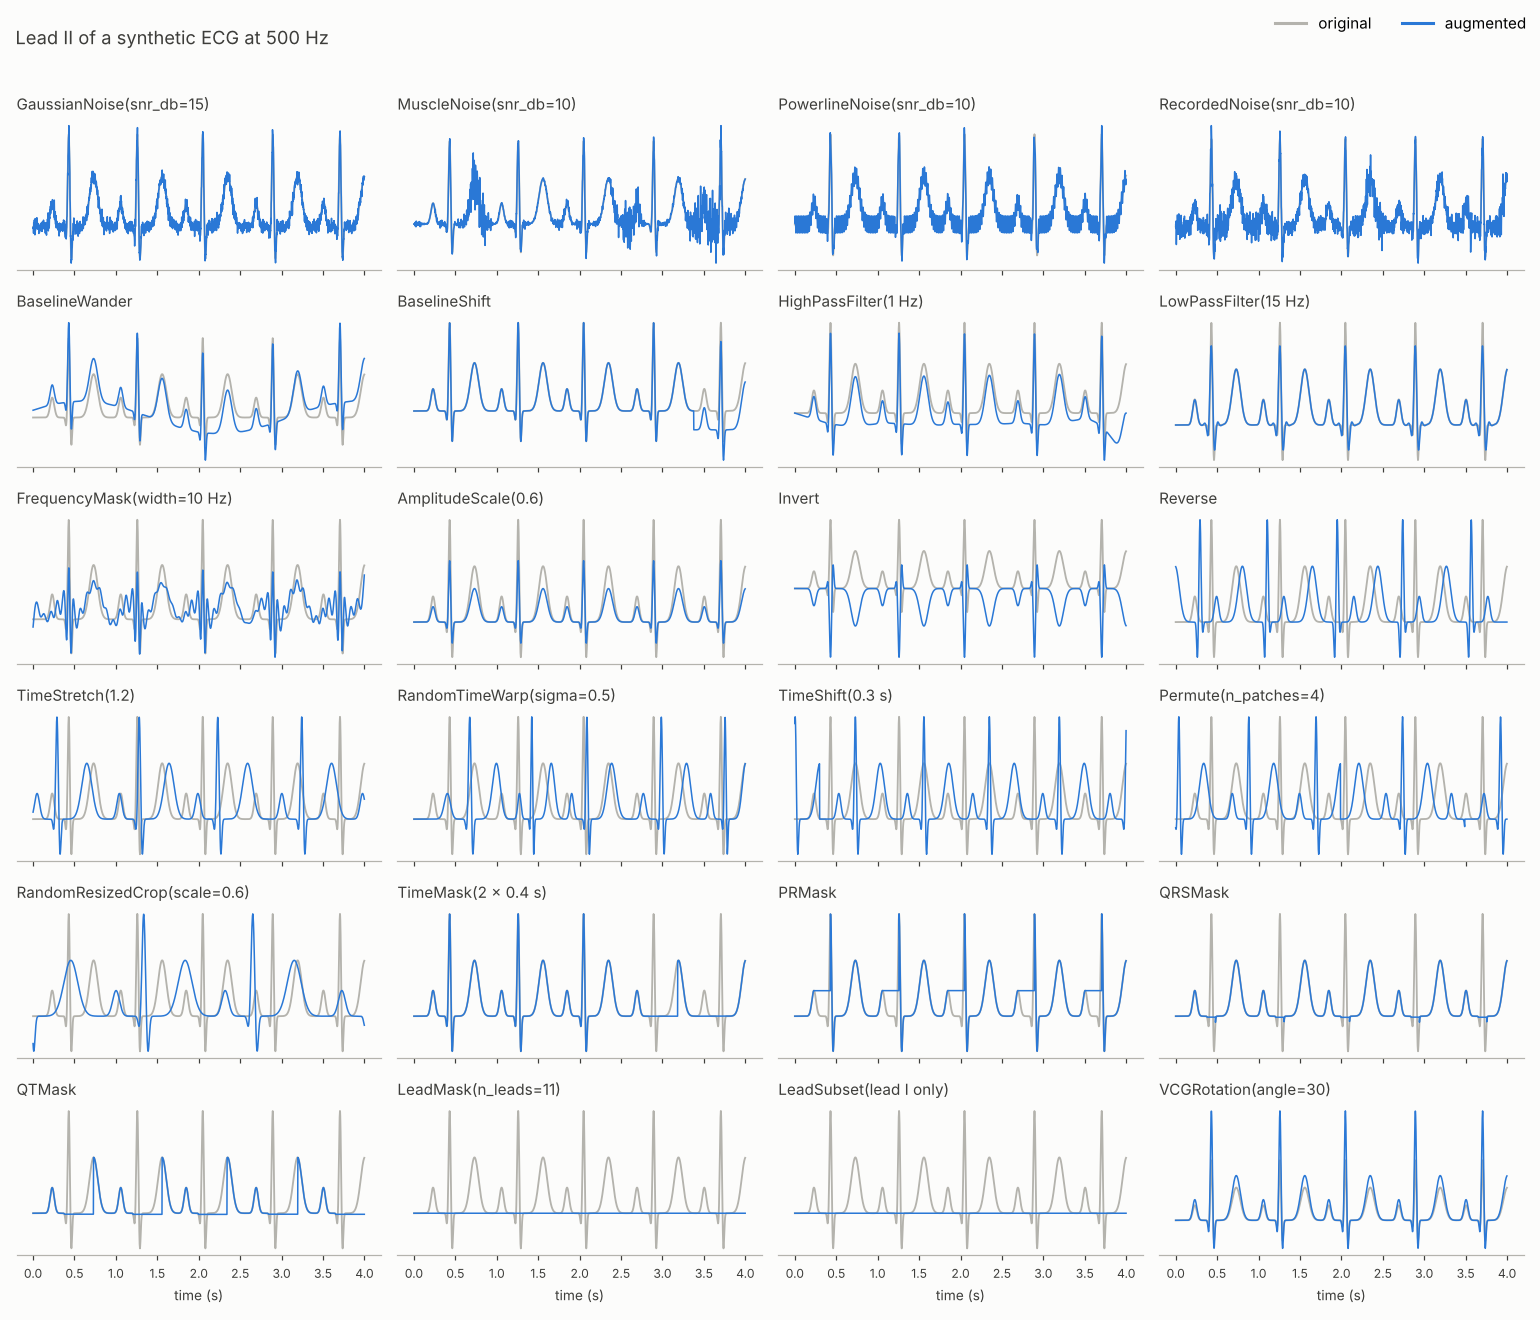
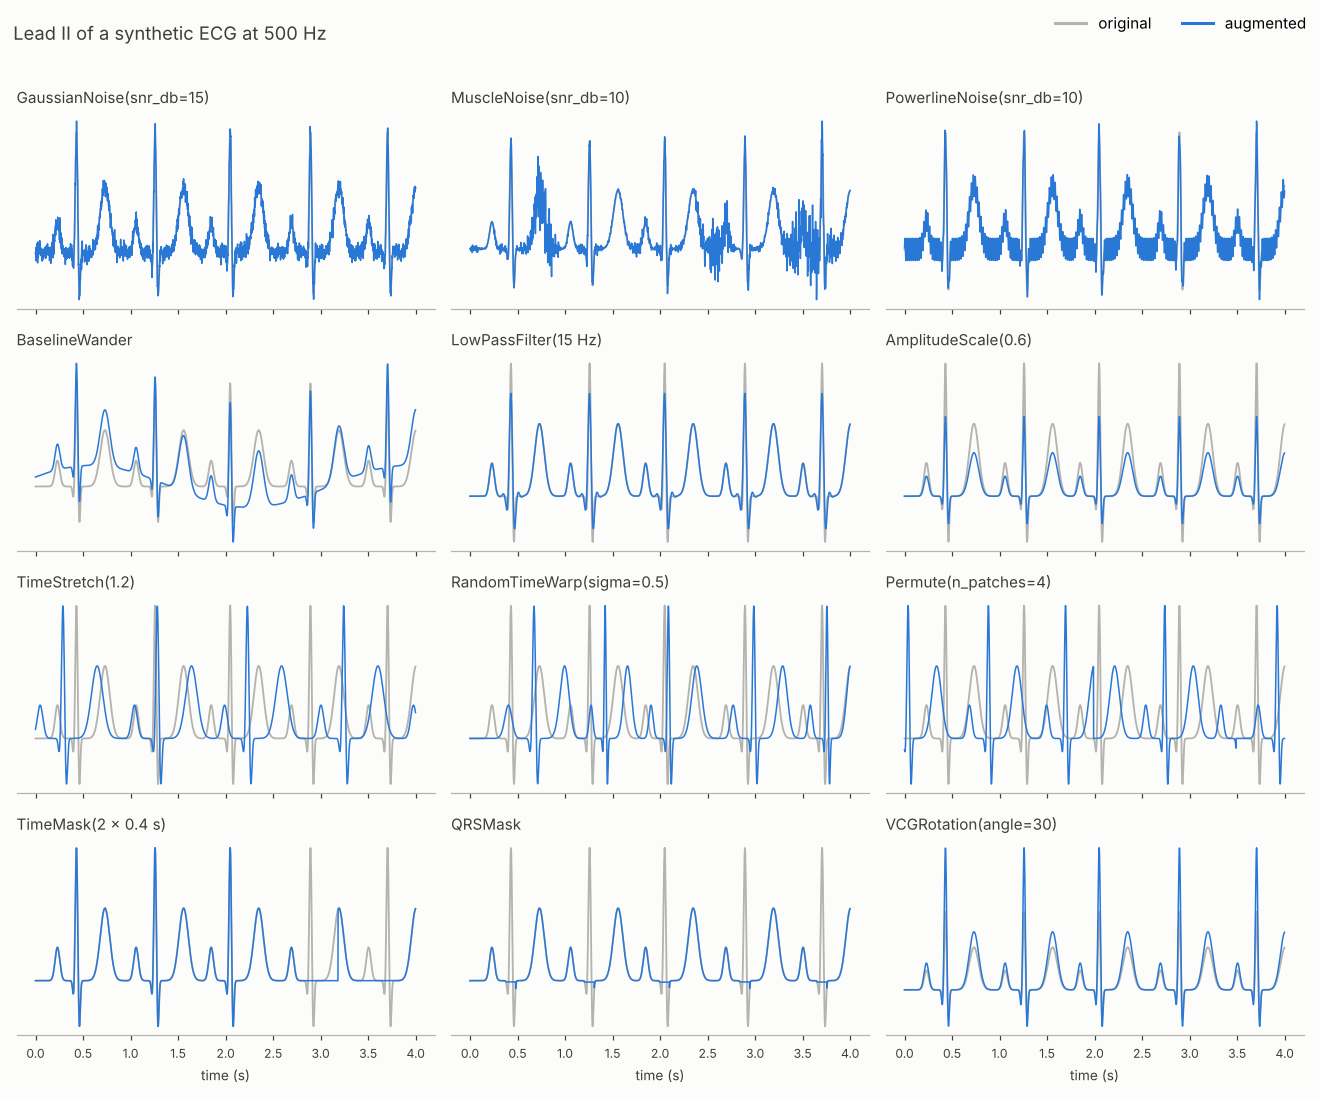
Use a 4x3 README figure of representative augmentations; trim README
Drops the Development and Changes from 0.x sections.

Claude-Session: https://claude.ai/code/session_01DPuCMPiJsXBoCGHFpKF4Lr

diff --git a/examples/plot_augmentations.py b/examples/plot_augmentations.py
@@ -1,4 +1,4 @@
-"""Plot lead II of a synthetic 12-lead ECG before and after each augmentation.
+"""Plot lead II of a synthetic 12-lead ECG before and after representative augmentations.
 
 Usage: python examples/plot_augmentations.py [output.png]
 """
@@ -14,34 +14,18 @@ ORIGINAL, AUGMENTED, INK, SURFACE = "#b4b3ad", "#2a78d6", "#3d3d3a", "#fcfcfb"
 
 ecg, peaks = ea.synthetic_ecg(duration=4, fs=FS, n_leads=12, heart_rate=72, seed=0)
 detector = lambda signal, fs: peaks.numpy()
-noise_bank = ea.MuscleNoise(FS, snr_db=0)(
-    torch.zeros(4, 20 * FS) + 1e-3 * torch.randn(4, 20 * FS)
-)
-
 transforms = {
     "GaussianNoise(snr_db=15)": ea.GaussianNoise(15),
     "MuscleNoise(snr_db=10)": ea.MuscleNoise(FS, 10),
     "PowerlineNoise(snr_db=10)": ea.PowerlineNoise(FS, snr_db=10),
-    "RecordedNoise(snr_db=10)": ea.RecordedNoise(noise_bank, 10),
     "BaselineWander": ea.BaselineWander(FS, amplitude=1.0, freq=0.3),
-    "BaselineShift": ea.BaselineShift(amplitude=1.0),
-    "HighPassFilter(1 Hz)": ea.HighPassFilter(FS, 1.0),
     "LowPassFilter(15 Hz)": ea.LowPassFilter(FS, 15.0),
-    "FrequencyMask(width=10 Hz)": ea.FrequencyMask(FS, width=10, max_freq=20),
     "AmplitudeScale(0.6)": ea.AmplitudeScale(0.6),
-    "Invert": ea.Invert(),
-    "Reverse": ea.Reverse(),
     "TimeStretch(1.2)": ea.TimeStretch(1.2),
     "RandomTimeWarp(sigma=0.5)": ea.RandomTimeWarp(0.5),
-    "TimeShift(0.3 s)": ea.TimeShift(FS, 0.3),
     "Permute(n_patches=4)": ea.Permute(4),
-    "RandomResizedCrop(scale=0.6)": ea.RandomResizedCrop(4 * FS, 0.6),
-    "TimeMask(2 x 0.4 s)": ea.TimeMask(FS, 0.4, n_masks=2),
-    "PRMask": ea.PRMask(FS, 1.0, detector=detector),
+    "TimeMask(2 × 0.4 s)": ea.TimeMask(FS, 0.4, n_masks=2),
     "QRSMask": ea.QRSMask(FS, 1.0, detector=detector),
-    "QTMask": ea.QTMask(FS, 1.0, detector=detector),
-    "LeadMask(n_leads=11)": ea.LeadMask(11),
-    "LeadSubset(lead I only)": ea.LeadSubset(subsets=("1",)),
     "VCGRotation(angle=30)": ea.VCGRotation(angle=(30, 30), scale=1.0),
 }
 
@@ -49,7 +33,7 @@ transforms = {
 def main(path="docs/images/augmentations.png"):
     lead = 1
     t = torch.arange(ecg.shape[-1]) / FS
-    fig, axes = plt.subplots(6, 4, figsize=(14, 12), sharex=True, facecolor=SURFACE)
+    fig, axes = plt.subplots(4, 3, figsize=(12, 10), sharex=True, facecolor=SURFACE)
     for ax, (name, transform) in zip(axes.flat, transforms.items()):
         y = transform(ecg, generator=torch.Generator().manual_seed(3))
         ax.plot(t, ecg[lead], color=ORIGINAL, lw=1.2)
@@ -61,8 +45,6 @@ def main(path="docs/images/augmentations.png"):
         for side in ("top", "right", "left"):
             ax.spines[side].set_visible(False)
         ax.spines["bottom"].set_color(ORIGINAL)
-    for ax in axes.flat[len(transforms) :]:
-        ax.axis("off")
     for ax in axes[-1]:
         ax.set_xlabel("time (s)", fontsize=9, color=INK)
     handles = [plt.Line2D([], [], color=c, lw=2) for c in (ORIGINAL, AUGMENTED)]

diff --git a/README.md b/README.md
@@ -8,7 +8,7 @@ ECG signal augmentations for PyTorch, built for representation and self-supervis
 - Per-sample application probabilities and reproducible randomness through `torch.Generator`.
 - Only `numpy` and `torch` are required.
 
-![Lead II of a synthetic ECG before and after each augmentation](docs/images/augmentations.png)
+![Lead II of a synthetic ECG before and after representative augmentations](docs/images/augmentations.png)
 
 ## Installation
 
@@ -120,27 +120,6 @@ No augmentation is label-preserving for every task. Choose them by what your lab
 | `Permute`, circular `TimeShift`, `CutMix` | beats cut at boundaries | RR sequence altered | rhythm labels (AF, ectopy patterns) |
 | `RandomCrop` | preserved | preserved | record-level labels of intermittent events |
 | `TimeMask`, `PRMask`, `QRSMask`, `QTMask` | masked content removed | preserved | labels defined by the masked waves |
-
-## Development
-
-```
-pytest            # synthetic signals only, no downloads
-black .
-python examples/plot_augmentations.py
-```
-
-`ea.synthetic_ecg` returns a multi-lead ECG and its R-peak indices for tests and demos. It is not a physiological model.
-
-## Changes from 0.x
-
-Version 1.0 is a breaking release:
-
-- Transforms take `fs` instead of `sample_rate`.
-- `GaussianNoise` takes `snr_db`.
-- Filter defaults are ECG cutoffs.
-- `ratio` in the beat masks is now the probability of masking a beat.
-- `Scale`, `TimeWarp`, `RandWanderer`, `RandMask`, `HighLowPass`, `Pass` and `utils` are replaced by `AmplitudeScale`, `TimeStretch`, `BaselineWander`, `TimeMask`, `OneOf([HighPassFilter(...), LowPassFilter(...)])` and an empty `Compose([])`.
-- Batched input, NumPy input, GPU tensors and seeding are now supported by every transform.
 
 ## Citation
 
